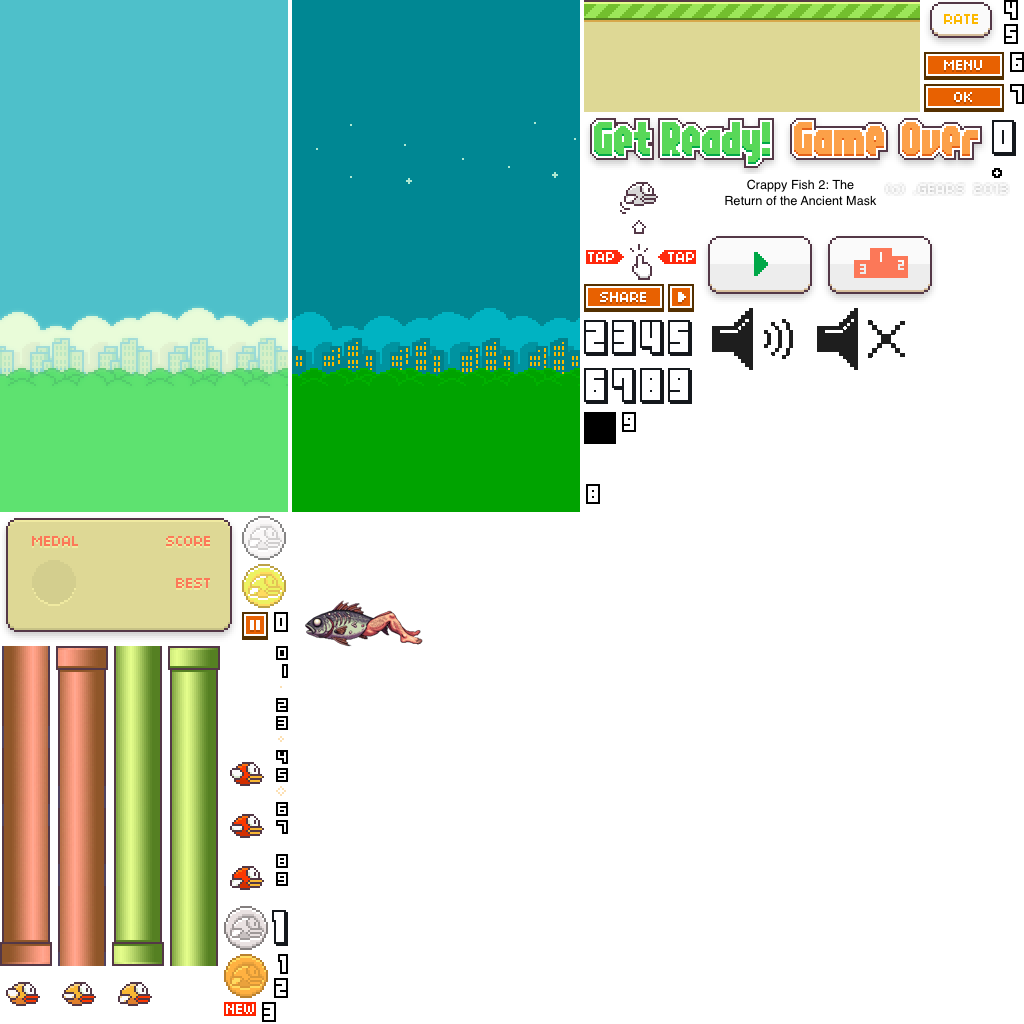
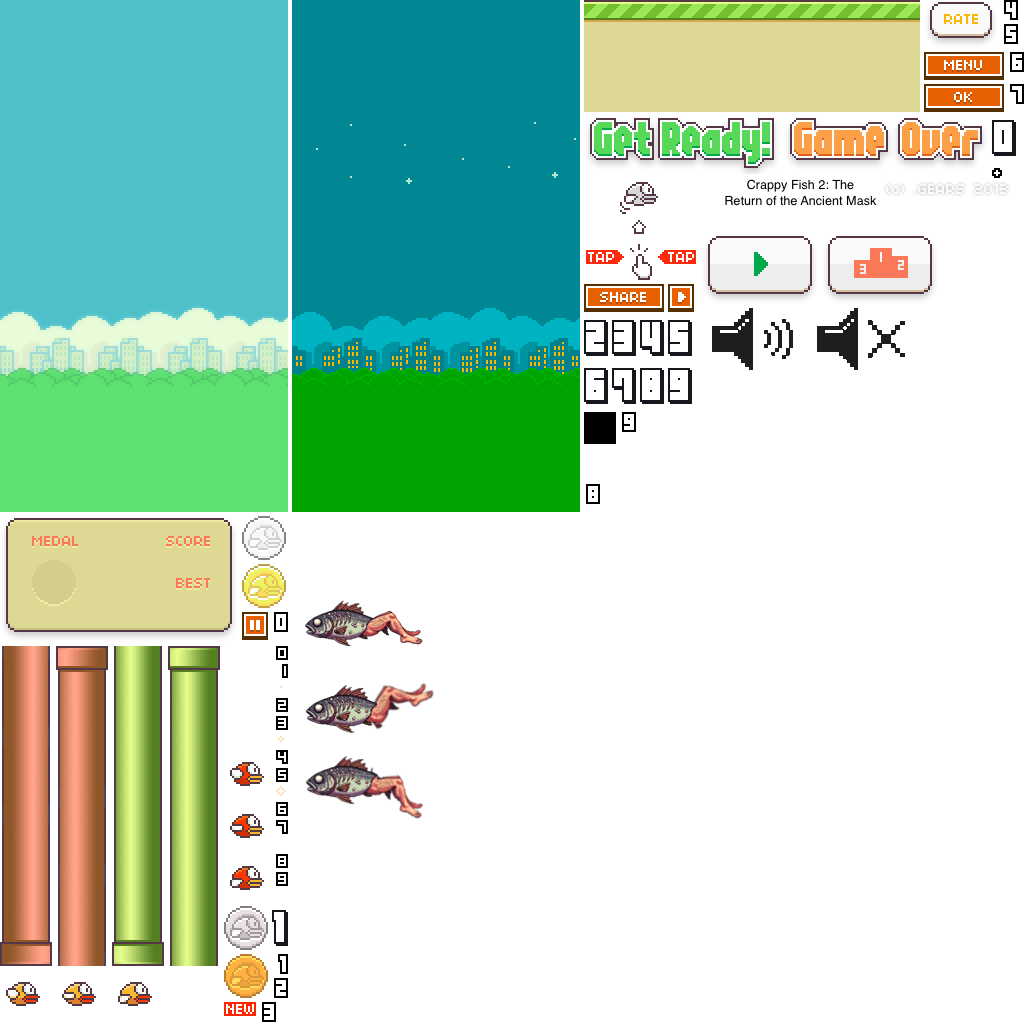
ground fixed + crappy fish as a sprite

Changed region(s): [[0.2812, 0.6562, 0.4375, 0.8125]]

diff --git a/app/game/multiplayer/BattleRoyaleRenderer.ts b/app/game/multiplayer/BattleRoyaleRenderer.ts
@@ -6,12 +6,8 @@
 import { GameState, PlayerState, PipeState } from './MultiplayerClient';
 import SpriteDestructor from '../core/lib/sprite-destructor';
 
-// Bird colors available
-const BIRD_SPRITES: Record<string, string[]> = {
-  yellow: ['bird-yellow-up', 'bird-yellow-mid', 'bird-yellow-down'],
-  red: ['bird-red-up', 'bird-red-mid', 'bird-red-down'],
-  blue: ['bird-blue-up', 'bird-blue-mid', 'bird-blue-down']
-};
+// Custom bird sprites (neutral, down, up)
+const CUSTOM_BIRD_SPRITES = ['bird-blue-up', 'bird-blue-mid', 'bird-blue-down'];
 
 export class BattleRoyaleRenderer {
   private canvas: HTMLCanvasElement;
@@ -19,6 +15,7 @@ export class BattleRoyaleRenderer {
   private canvasSize: { width: number; height: number };
   private mySessionId: string = "";
   private animationFrame: number = 0;
+  private platformOffset: number = 0;
 
   // Cached sprites
   private birdSprites: Map<string, HTMLImageElement> = new Map();
@@ -37,15 +34,13 @@ export class BattleRoyaleRenderer {
   }
 
   loadSprites(): void {
-    // Load bird sprites
-    for (const [color, sprites] of Object.entries(BIRD_SPRITES)) {
-      for (let i = 0; i < sprites.length; i++) {
-        try {
-          const sprite = SpriteDestructor.asset(sprites[i]);
-          this.birdSprites.set(`${color}.${i}`, sprite);
-        } catch (e) {
-          console.warn(`Failed to load sprite ${sprites[i]}`);
-        }
+    // Load custom bird sprites
+    for (let i = 0; i < CUSTOM_BIRD_SPRITES.length; i++) {
+      try {
+        const sprite = SpriteDestructor.asset(CUSTOM_BIRD_SPRITES[i]);
+        this.birdSprites.set(`custom.${i}`, sprite);
+      } catch (e) {
+        console.warn(`Failed to load sprite ${CUSTOM_BIRD_SPRITES[i]}`);
       }
     }
 
@@ -83,6 +78,11 @@ export class BattleRoyaleRenderer {
     
     const ctx = this.context;
     const { width, height } = this.canvasSize;
+
+    // Synchronize platform offset with server game time (60 FPS tick rate)
+    if (state.phase === "playing") {
+      this.platformOffset = state.gameTime * state.gameSpeed * 0.06;
+    }
 
     // Clear canvas
     ctx.clearRect(0, 0, width, height);
@@ -136,9 +136,11 @@ export class BattleRoyaleRenderer {
     const platformY = height - platformHeight;
 
     if (this.platformSprite) {
-      // Tile the platform sprite
+      // Tile the platform sprite with scrolling offset
       const tileWidth = platformHeight * 2;
-      for (let x = 0; x < width; x += tileWidth) {
+      const offsetPixels = -(this.platformOffset * width) % tileWidth;
+      
+      for (let x = offsetPixels; x < width; x += tileWidth) {
         ctx.drawImage(this.platformSprite, x, platformY, tileWidth, platformHeight);
       }
     } else {
@@ -189,12 +191,12 @@ export class BattleRoyaleRenderer {
   ): void {
     const birdX = width * 0.3; // Fixed X position
     const birdY = player.y * height;
-    const birdWidth = width * 0.08;
-    const birdHeight = birdWidth * 0.7;
+    const birdWidth = width * 0.25; // GIGANTIC BIRD MODE 🐦
+    const birdHeight = birdWidth * 0.45; // Fixed aspect ratio (avg of sprites: ~125x55 → 0.44)
 
-    // Get wing state based on animation
+    // Get wing state based on animation (use custom sprite instead of color-based)
     const wingState = player.alive ? Math.floor(this.animationFrame / 5) % 3 : 1;
-    const spriteKey = `${player.color}.${wingState}`;
+    const spriteKey = `custom.${wingState}`;
     const sprite = this.birdSprites.get(spriteKey);
 
     ctx.save();

diff --git a/app/game/core/asset-preparation.ts b/app/game/core/asset-preparation.ts
@@ -72,9 +72,9 @@ export default (callback: IEmptyFunction): void => {
     sd.cutOut('bird-yellow-up', 6, 982, 34, 24);
     sd.cutOut('bird-yellow-mid', 62, 982, 34, 24);
     sd.cutOut('bird-yellow-down', 118, 982, 34, 24);
-    sd.cutOut('bird-blue-up', 304, 600, 125, 51);
-    sd.cutOut('bird-blue-mid', 230, 658, 34, 24);
-    sd.cutOut('bird-blue-down', 230, 710, 34, 24);
+    sd.cutOut('bird-blue-up', 300, 600, 125, 51);
+    sd.cutOut('bird-blue-mid', 300, 682, 130, 53);
+    sd.cutOut('bird-blue-down', 300, 755, 125, 63);
     sd.cutOut('bird-red-up', 230, 762, 34, 24);
     sd.cutOut('bird-red-mid', 230, 814, 34, 24);
     sd.cutOut('bird-red-down', 230, 866, 34, 24);
